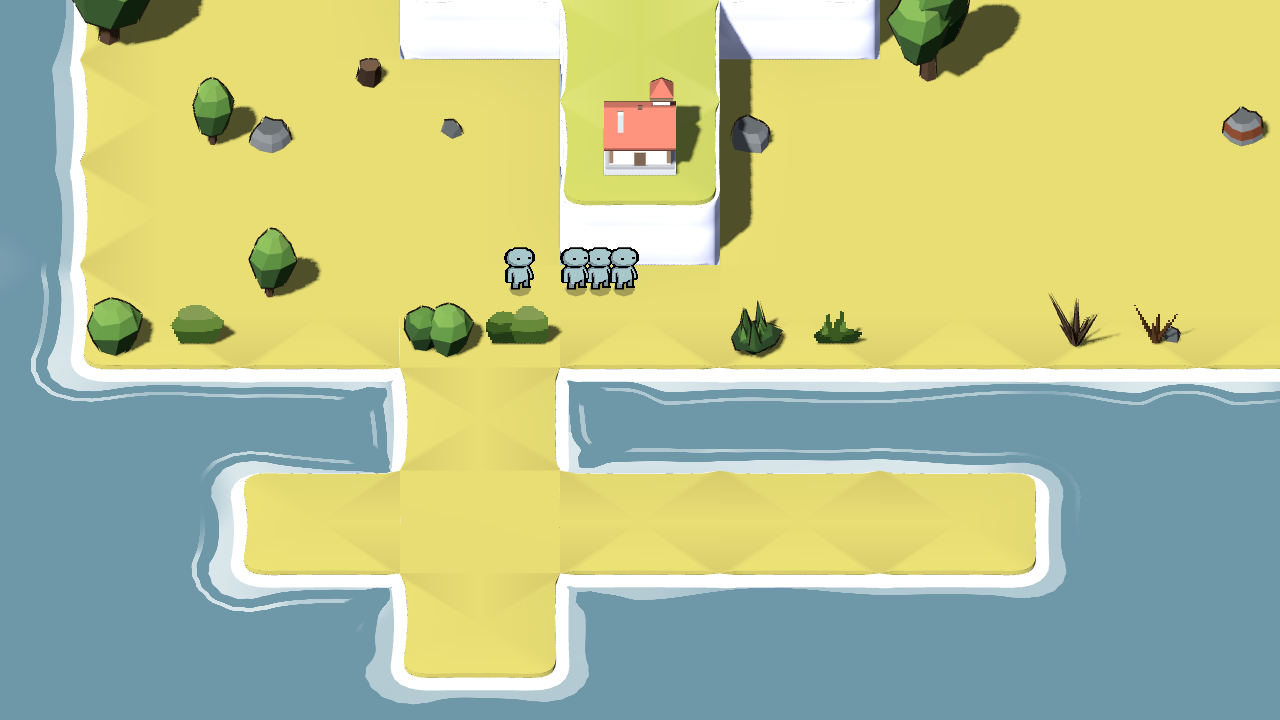
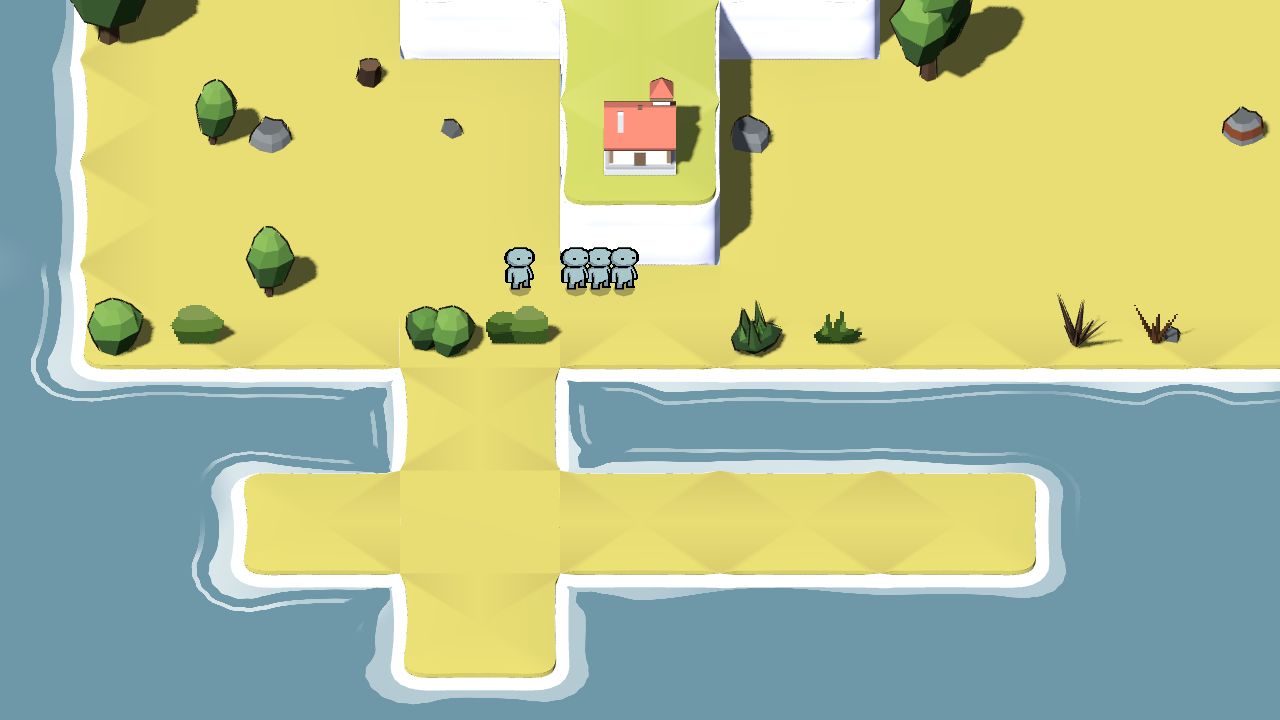
바람 파형을 실제로 쓰이는 것으로 바꾸고, 조사 노트를 남겼다
**⚠⚠ 앞 라운드에서 사용자에게 드린 답 하나가 너무 셌다**

「그림은 못 흔들린다」고 했는데, **정확히는 「노드를 돌려서는 못 흔든다」다** — 잰 값 0.00 px 은
`BILLBOARD_FIXED_Y` 가 노드 회전을 버려서 나온 것이고, **정점 셰이더로는 판때기도 흔들 수 있다.**
⚠ **배드노스가 바로 그렇게 한다** — 이 저장소의 08-29 조사 노트에 개발자 트윗으로 이미 적혀 있다.
숲이 빌보드 판이고 잎이 바람 벡터장에 반응한다.

**다만 배드노스의 판때기는 묶음으로 굴러간다** — 외곽선이 부풀린 껍질이 아니라 **어긋나게 겹친
어두운 복사본**이고, 실시간 그림자가 없다. 개발자 본인이 나중 프로젝트에 대해 말한 것도 같이 있다:
「빌보드로 하면 클리핑과 싸워야 하고 외곽선이 훨씬 덜 깨끗해진다」.

**바꾼 것 — 파형**

사인을 **부드러운 삼각파**로 바꿨다. 크라이시스가 그렇게 하고 유니티 잔디는 사인의 네제곱을 쓴다.
둘 다 마루를 뾰족하게 하고 골을 평평하게 해서 **식물이 쉬었다 불었다 쉰다.** ⚠ 08-29 노트에
이미 배드노스 개발자에게 달린 지적이 있다 — 「덤불 흔들림이 너무 규칙적이다」.
위상도 라디안에서 **한 주기 0..1 로** 바꿨다 — 안 그러면 이웃끼리 6분의 1 주기 안에 몰린다.

**꼭대기 이동** 둔덕 5.83 px · 가시 9.81 px. 2D 는 여전히 0.00 px.

**남긴 것** — `docs/reference/` 에 조사 노트 한 장. **08-29 노트에 없던 둘만 담았다**:
크라이시스·유니티의 실제 식, 그리고 **`next_pass` 외곽선이 정점 변형을 안 따라온다**는 답.
고돗 공식 답변과 포럼이 둘 다 명시한다 — 껍질도 같은 변형을 다시 써야 한다.

⚠ **기울이는 방식은 문서화된 세 함정 중 둘을 피한다** — 늘어난 경계로 화면 끝에서 사라지는 것과
그림자가 안 따라오는 것. **움직이는 노드는 제 경계와 제 그림자를 데리고 간다.**

**그물** 통과 1255 · 실패 65 — 그대로다. ⚠ 한 번 66 이 됐던 것은 `net_citations` 가
주석에 박은 문서 경로를 잡은 것이고, 이름만 부르게 고쳤다.

Claude-Session: https://claude.ai/code/session_01HTBzahuC2bQz2TAdjPssMJ

diff --git a/docs/reference/2026-08-31-foliage-sway-formulas-and-the-outline-shell.md b/docs/reference/2026-08-31-foliage-sway-formulas-and-the-outline-shell.md
@@ -1,0 +1,143 @@
+# The published sway formulas, and what a `next_pass` outline does to them
+
+⚠⚠ **READ `2026-08-29-foliage-mesh-vs-card-and-sway.md` FIRST.** That file answers *what Bad North does*
+and *mesh or card*; this one answers *what is the actual arithmetic* and *what happens to our outline*.
+**Two things here were not in that file**: the shipped formulas, verbatim, and the answer to whether an
+inverted-hull `next_pass` shell follows a vertex displacement. **It does not.**
+
+---
+
+## 1. The canonical split — "main bending" and "detail bending"
+
+**Tiago Sousa (Crytek), *GPU Gems 3* ch. 16**, describing CryENGINE 2 / Crysis. Main bending moves the
+whole plant along the wind weighted by height; detail bending flutters the leaves.
+[source](https://developer.nvidia.com/gpugems/gpugems3/part-iii-rendering/chapter-16-vegetation-procedural-animation-and-shading-crysis) — **read**
+
+### ⚠ The height weight is NOT linear and NOT a sine
+
+```
+float fBF = vPos.z * fBendScale;
+fBF += 1.0;
+fBF *= fBF;
+fBF = fBF * fBF - fBF;
+vNewPos.xy += vWind.xy * fBF;
+vPos.xyz = normalize(vNewPos.xyz) * fLength;
+```
+
+**The weight is `(1 + h·s)⁴ − (1 + h·s)²`** — zero at `h = 0`, so the base is pinned, and quartic toward
+the tip. ⚠⚠ **The last line is the part everybody drops**: renormalising back to the original distance
+from the mesh origin is what makes the tip **arc** rather than shear sideways. **It only works if the
+mesh origin sits at the base of the prop** — which is how `blend/props.blend` is built, so this is
+available to us if it is ever wanted.
+
+### ⚠⚠ And the wave is a smoothed triangle, not a sine
+
+```
+float4 SmoothCurve(float4 x)        { return x * x * (3.0 - 2.0 * x); }
+float4 TriangleWave(float4 x)       { return abs(frac(x + 0.5) * 2.0 - 1.0); }
+float4 SmoothTriangleWave(float4 x) { return SmoothCurve(TriangleWave(x)); }
+```
+
+**Unity's shipped terrain grass does the same job differently** — four summed waves and `sin⁴`, from
+`TerrainEngine.cginc`
+([source](https://github.com/TwoTailsGames/Unity-Built-in-Shaders/blob/master/CGIncludes/TerrainEngine.cginc) — **read**):
+
+```
+waves  = vertex.x * _waveXSize;      // _waveXSize = (0.012, 0.02, 0.06, 0.024) * size
+waves += vertex.z * _waveZSize;      // _waveZSize = (0.006, 0.02, 0.02, 0.05)  * size
+waves += _WaveAndDistance.x * waveSpeed;      // waveSpeed = (0.3, 0.5, 0.4, 1.2) * 4
+waves = frac(waves);
+FastSinCos(waves, s, c);
+s = s * s;  s = s * s;               // sin^4 -- sharpens the crest
+```
+
+⇒ **Both sharpen the crest and flatten the trough**, so a plant rests, gusts, and rests. **A plain sine
+is a metronome, and the defect has a name in this repo already**: the 08-29 note carries a reply to Bad
+North's developer, 「your bush wiggling is too regular… wind is more wave like」.
+
+⚠ **Unity's bend weight is painted into vertex colour alpha** (1 at the tip, 0 at the base), not derived
+from Y, and the displacement is **XZ only**.
+
+---
+
+## 2. ⚠⚠ **The `next_pass` outline does NOT follow a vertex displacement**
+
+**This is the finding that decides whether we can ever bend rather than lean.**
+
+Godot's `Material` docs: next_pass *"renders the object again using a different material"* — **the
+object again**, i.e. the original undisplaced mesh through the second material's own vertex stage.
+The engine forum states it outright: **"The vertex displacement does not carry over to the next pass
+material"**, with the fix being to put everything in one `ShaderMaterial`.
+([forum](https://forum.godotengine.org/t/applying-standardmaterial3d-after-vertex-displacement-shader/128383) ·
+[docs](https://docs.godotengine.org/en/stable/classes/class_material.html) — **both read**)
+
+**What that costs us concretely:**
+
+- A `StandardMaterial3D` shell using `grow` **can never follow the wind.** The ink stays on the rest
+  pose while the mesh sways out from under it.
+- The shell has to become a `ShaderMaterial` repeating the **identical** displacement first and only
+  then offsetting along the normal — same uniforms, same `TIME`, same phase — or the two desync.
+- ⚠ Second gotcha, same docs page: **next_pass materials are not necessarily drawn immediately after
+  the source**; order depends on material properties, `render_priority` and distance.
+
+**At 25–55 screen px a one-pixel mismatch is 2–4% of the prop's width**, and under an orthographic
+camera there is no perspective jitter to hide it.
+
+⇒ **This is why the game leans the node instead of bending the mesh.** A `Basis` per prop per frame
+moves the shell for free, because the shell is a second pass over a node that has already moved.
+
+---
+
+## 3. Rotating the whole object is a documented tier, not a shortcut
+
+- **SpeedTree's own wind ladder is Full → Branch → Global → None**, and **"Global motion"** is described
+  as the **"simplest rocking of the entire tree model."** Their performance page advises reaching Global
+  or None early. ⚠ **Not verified** — `docs.speedtree.com` refused the fetch; this is the search index's
+  text of [wind_overview](https://docs.speedtree.com/doku.php?id=wind_overview).
+- **Unreal ships `InteractiveFoliageActor`** — a static mesh that takes touch impulses into a damped
+  spring (`FoliageDamping`, `FoliageStiffness`, `FoliageStiffnessQuadratic`, `FoliageTouchImpulseScale`)
+  and outputs a rotation axis and angle, described as animating the mesh **"with minimal performance
+  impact."** ⚠ **Not verified** — docs 403'd.
+- **The middle rung** is *GPU Gems 3* ch. 6 (Renaldas Zioma, EA/DICE): rotate rigid branch segments about
+  joints rather than bend vertices. Measured on 2007 hardware: **256 instances / 20,480 branches =
+  9.68 ms**. Unreal's **Pivot Painter** is the productised form.
+  [source](https://developer.nvidia.com/gpugems/gpugems3/part-i-geometry/chapter-6-gpu-generated-procedural-wind-animations-trees) — **read**
+
+⚠ **Two of the three documented traps do not apply to a leaning node**, and both bite a displacing
+shader (they are listed in the 08-29 note): the **stale AABB** — a bush displaced outside its bounds pops
+out near the screen edge — and the **shadow that does not sway**, because the depth pass often runs a
+stripped vertex shader. **A node that moves carries its own bounds and its own shadow.**
+
+---
+
+## 4. Making foliage bend AWAY from a body walking through it
+
+**Four tiers, cheapest first.**
+
+| | What it is | What it costs | ⚠ |
+|---|---|---|---|
+| **a. Interactor array** | positions + radii as uniforms; the vertex shader pushes radially away. hexaquo's Godot 4 line: `float bend = max(radius - dist, 0.0) / radius;` | one loop of N in `vertex()` | *"does not scale well, and is only limited to just a few characters"* ([Alan Zucconi](https://www.alanzucconi.com/2018/07/28/shader-showcase-saturday-3/) — **read**) |
+| **b. Trample render target** | an orthographic camera above the player renders into a small top-down texture the foliage shader samples by world position | one extra RT + camera pass, one fetch in `vertex()` | **the only tier that gives PERSISTENCE** — grass stays flattened and unbends over time. ⚠ needs a depth pass too when props sit at different heights, **which ours do** — two storeys and a stair |
+| **c. Per-object damped spring** | Unreal's `InteractiveFoliageActor` | one rotation per prop, CPU | fits props, not grass fields. **This is the tier our leaning node is already one step away from** |
+| **d. Fluid wind sim** | God of War's wind motors and receivers | a GPU sim | not in scale |
+
+⚠ **Bad North's wind is environmental, not character-driven** — the 08-29 note establishes that from the
+developer's own tweets. **Nobody has asked for trample here yet.**
+
+---
+
+## 5. What could not be found
+
+- ⚠⚠ **No stylised shipped game with a published statement that it keeps foliage static ON PURPOSE**, for
+  art direction or readability. Townscaper, Islanders and Bad North were all searched specifically and
+  none has a developer statement of that kind. **Do not cite them as an argument for stillness.**
+- The only verified opposite case is small: the *Shroom* devlog on itch.io — **"Grass wind was removed
+  because of performance."**
+  ([source](https://goury.itch.io/shroom/devlog/224371/another-iteration-on-textures-and-grass) — **read**)
+- **Godot ships nothing** for foliage wind. Its official answer is the
+  [Making trees](https://docs.godotengine.org/en/stable/tutorials/shaders/making_trees.html) shader
+  tutorial (**read**), which is worth two lines verbatim: use **world coordinates** *"so the tree can be
+  duplicated, moved, etc."*, and give **every axis a different near-1.0 multiplier** *"so axes don't
+  appear in sync."* `NODE_POSITION_WORLD` is the idiomatic per-clone phase seed.
+- Horizon Zero Dawn, God of War and Ghost of Tsushima are **GDC Vault, paywalled** — summaries only, not
+  read.
